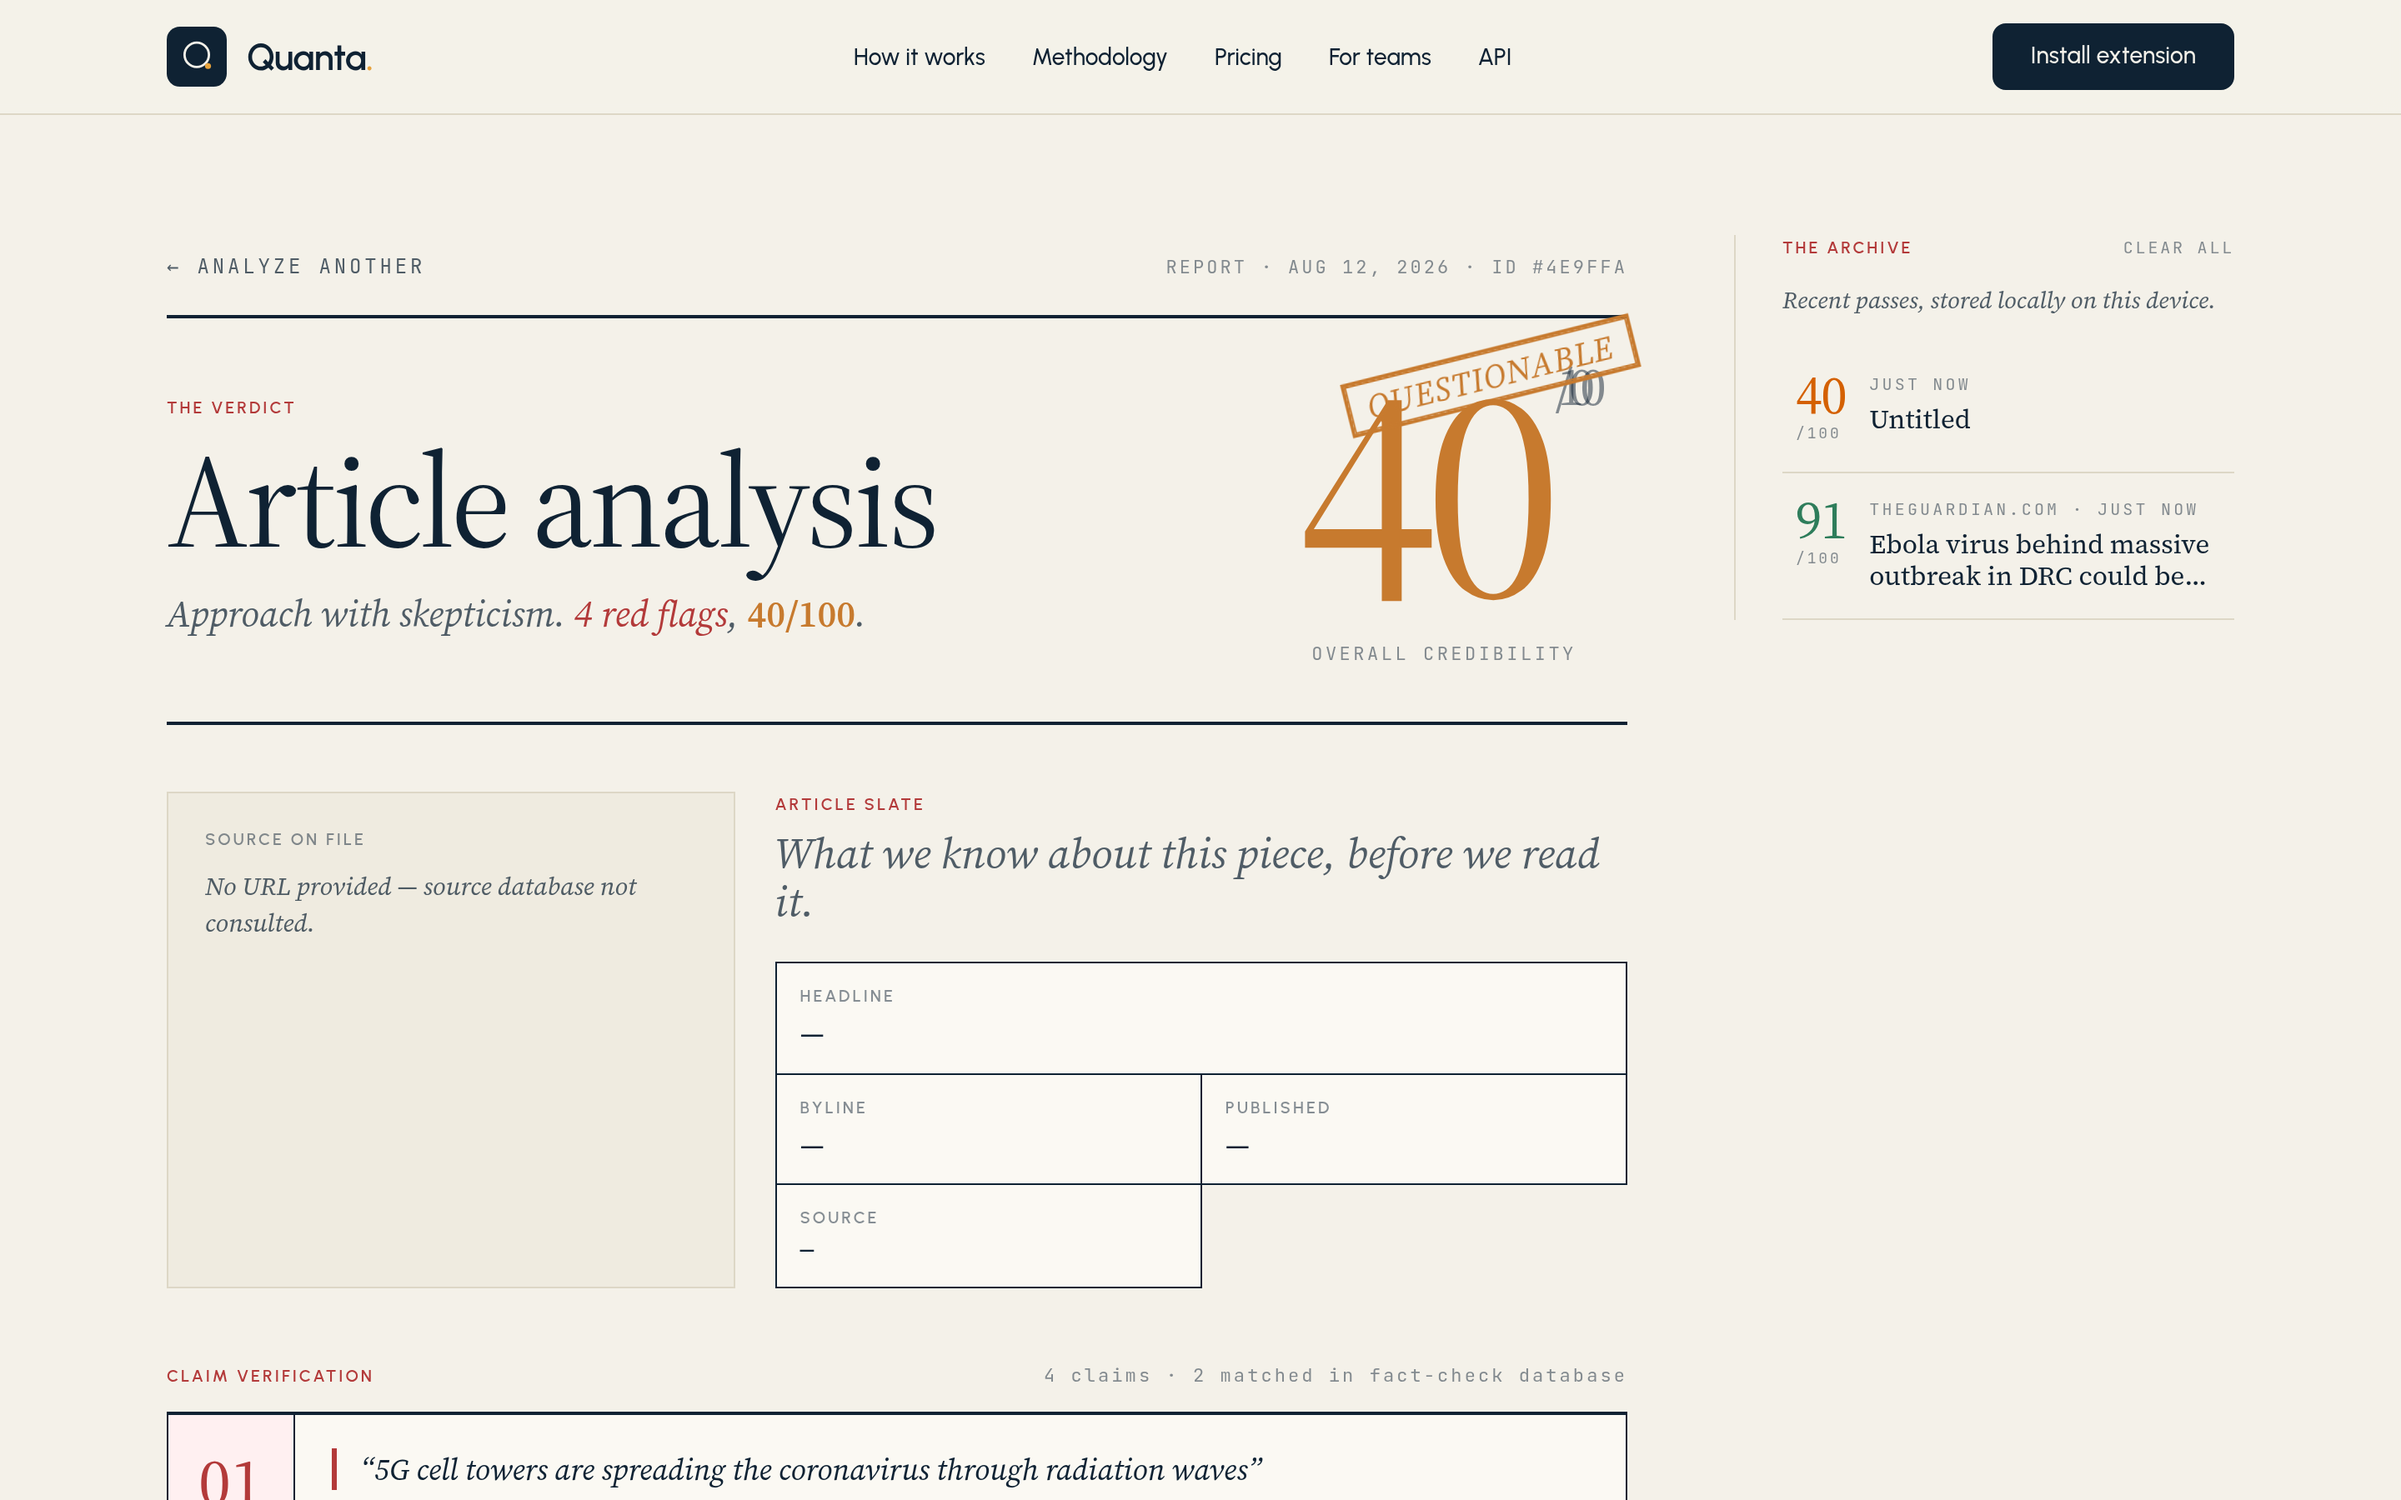
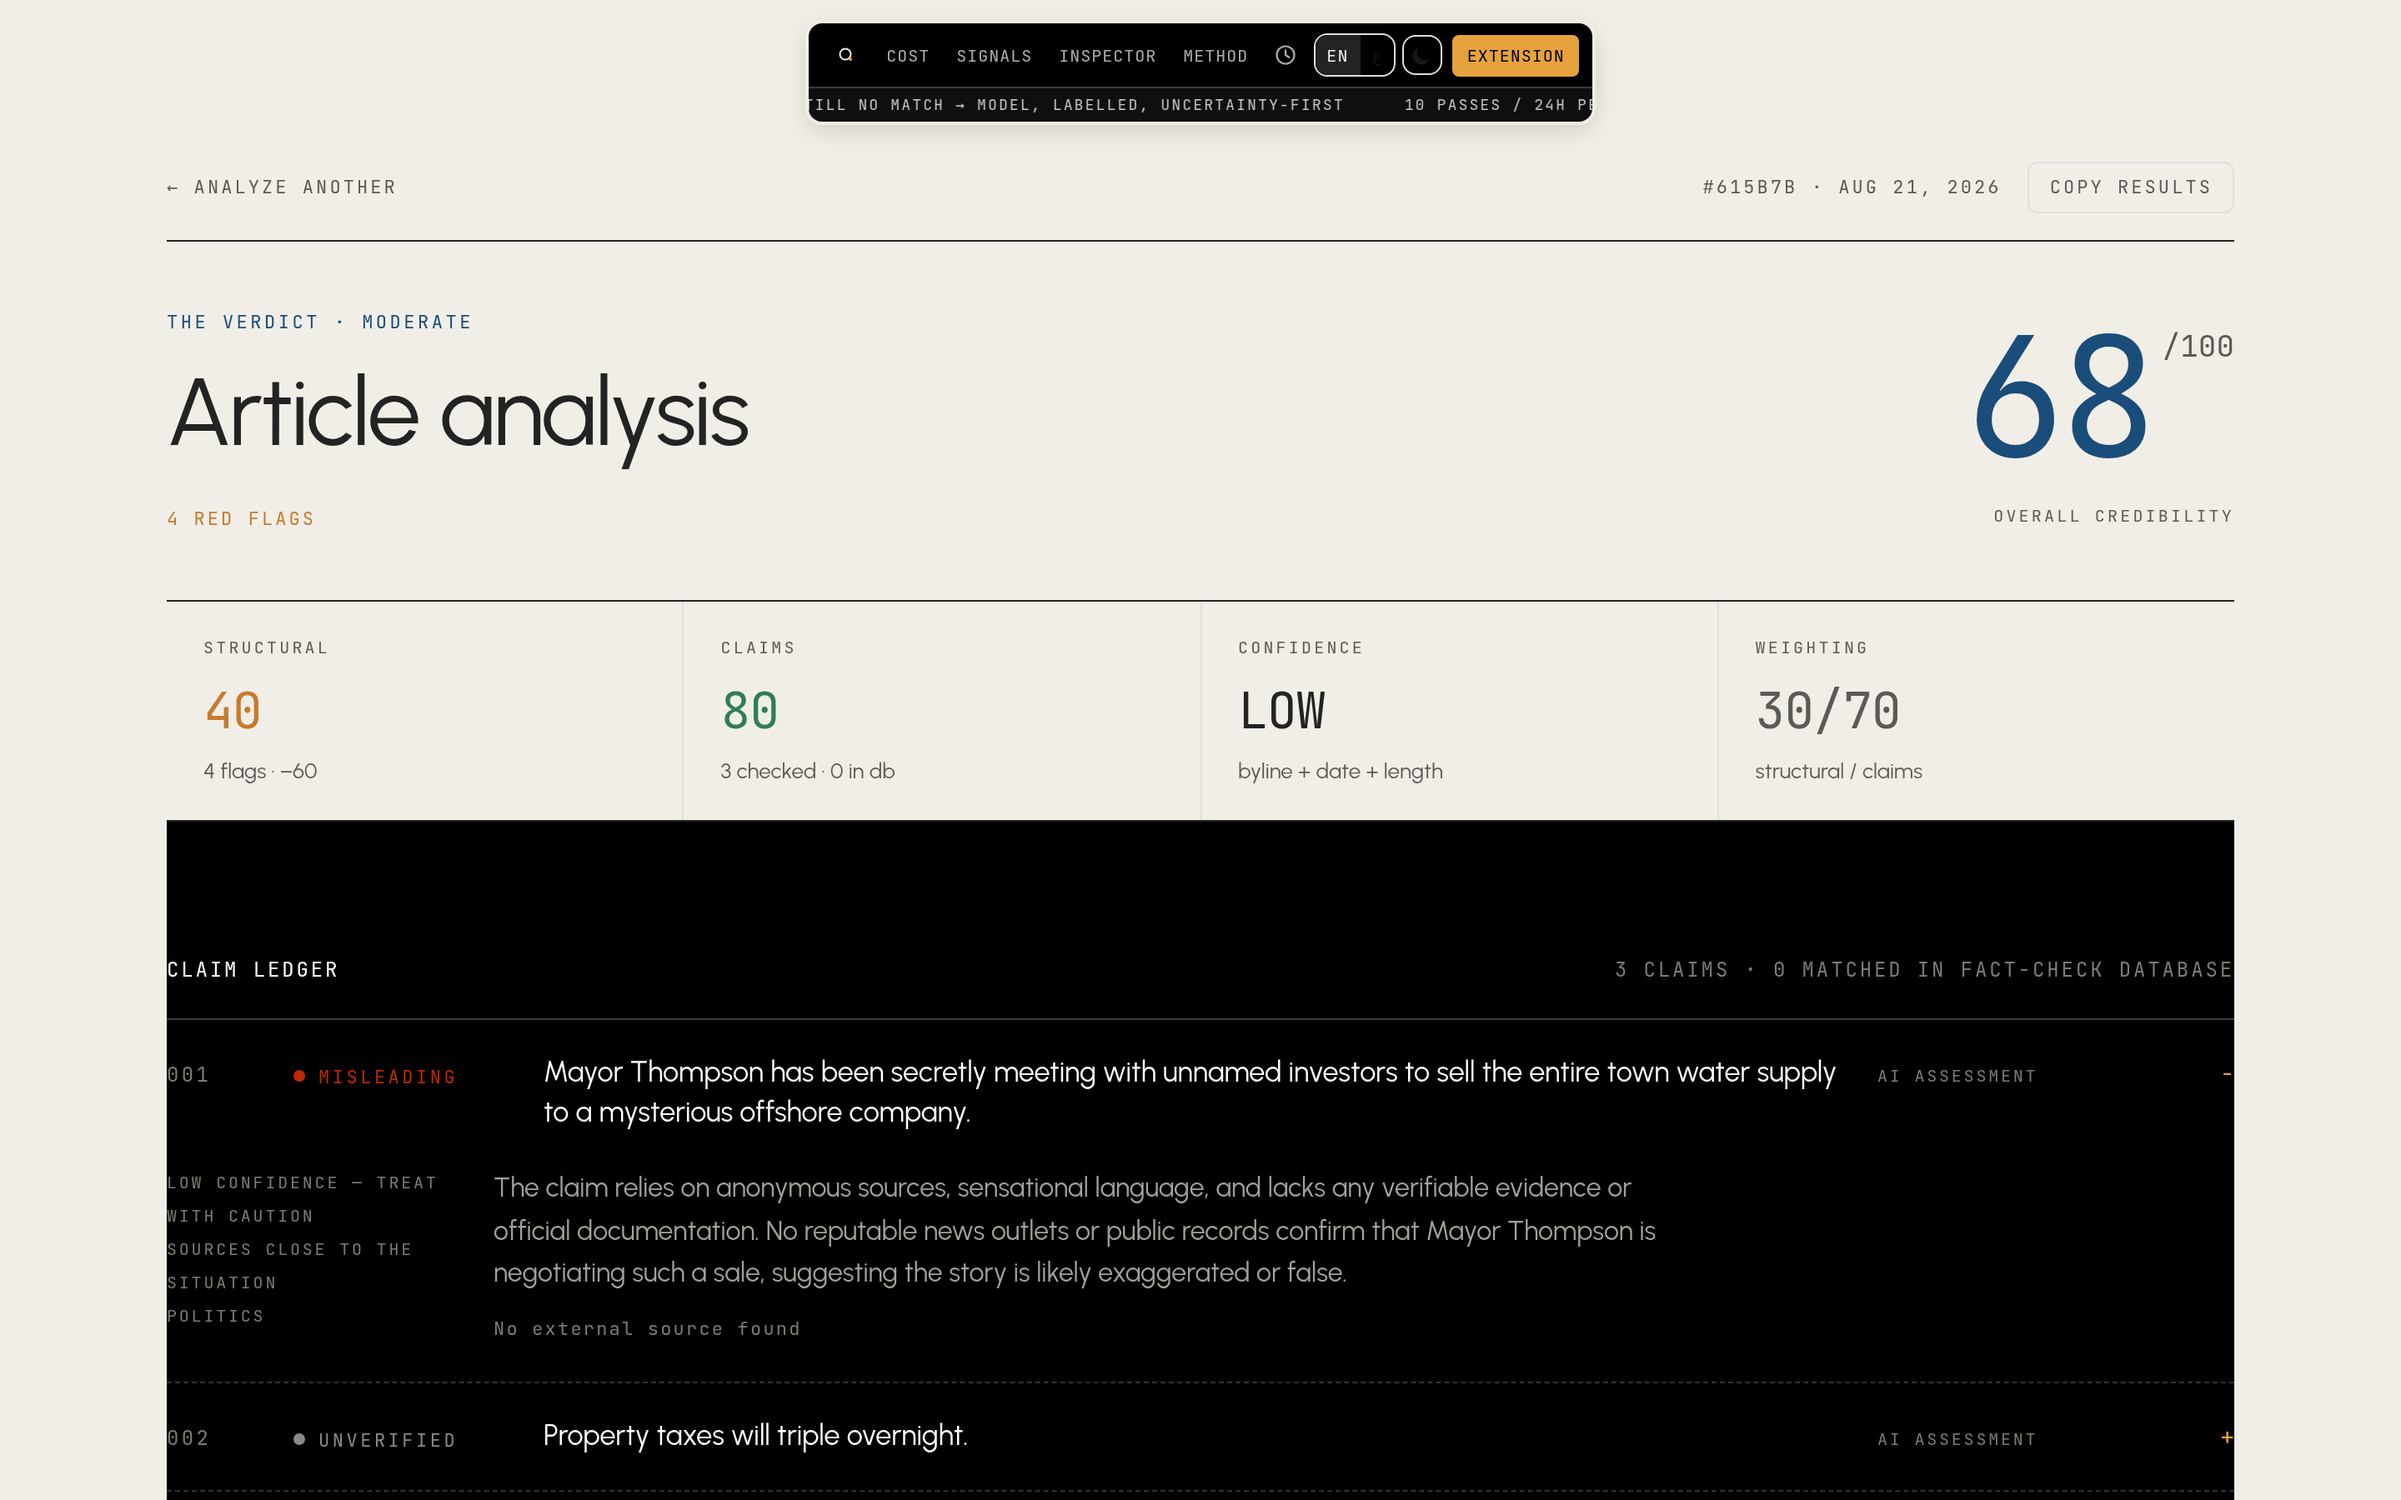
Update the README to the Instrument v2 design
Every screenshot was showing the old serif-accented design, dropped in
the last several commits for the mono-and-dark-panel redesign -- and
two of them (report-low.png, red-flags.png) were built around numbers
("40/100", "four false claims") the real UI can no longer produce
after the verdict-mapping and scoring-formula changes earlier in the
project.

All twelve screenshots are freshly captured from the running app --
real BBC and AP articles through real Groq/Google Fact Check/Brave
calls, not staged data. One flagship swap: the first live URL pulled
for the report-high demo turned out to be about the West Bank, and a
permanent public README is not the place to have the tool's own AI
render a verdict on a live, contested geopolitical claim -- swapped
for a BBC piece about a dinosaur sculpture exhibit instead. The
low-score example also changed on its own merits: the real run landed
at 68/100 despite four structural red flags, because the claims pass
declined to confidently call anything false -- kept that result
instead of cherry-picking a lower one, since it's a more honest
demonstration of exactly why the structural pass is only 30% of the
score. The extension screenshots are real too, driven through a
chrome.* mock whose analyze port hits the actual /api/analyze endpoint
rather than faking a result.

Text changes ride along with the screenshots: the model reference
throughout (README and the report footer's "engine v2" line) now says
[…]

diff --git a/README.md b/README.md
@@ -21,9 +21,9 @@
 
 ---
 
-![A Quanta credibility report](docs/screenshots/report-high.png)
+![The Quanta home screen — URL input beside a cursor-tracked signal field](docs/screenshots/app-input.png)
 
-<div align="center"><sub>A live <i>Guardian</i> article, measured — 91/100, one structural flag, five claims verified.</sub></div>
+<div align="center"><sub>Instrument v2: a mono-and-dark-panel redesign. The right-hand panel is a real thing, not decoration — move the cursor and it samples a reading; the numbers streaming past it are the same illustrative vocabulary as the "Try" links below the input, not live telemetry.</sub></div>
 
 ---
 
@@ -47,45 +47,47 @@ The score is arithmetic over those verdicts, not a vibe. You can read the formul
 
 ### 1 · Paste a URL or the article text
 
-The archive on the right is every pass you've run, kept in `localStorage` — no account needed, and the history never leaves the browser.
-
-![Article input](docs/screenshots/app-input.png)
+The nav's history button opens the archive — every pass you've run, kept in `localStorage`, no account needed. It never leaves the browser.
 
 ### 2 · Watch it think
 
-The API is a **Server-Sent Events** stream, so the UI names each step as the server reaches it — including one line per claim being verified. Nothing is a fake progress bar; step `06` is genuinely the sixth frame off the wire.
+The API is a **Server-Sent Events** stream, so the UI names each step as the server reaches it, and mirrors the raw frames on the right. Nothing is a fake progress bar — each line there is a frame that actually arrived off the wire.
 
-![Streaming analysis progress](docs/screenshots/analyzing.png)
+![Streaming analysis, live SSE frames on the right](docs/screenshots/analyzing.png)
 
 ### 3 · Read the verdict
 
-The report at the top of this page scored a *Guardian* piece at 91. Here is the same pipeline over a deliberately fabricated tabloid text: 40/100, four structural flags, four false claims — two of them matched directly against fact-check databases.
+A live BBC piece, scored 77/100 — "moderate," one structural flag (no byline), five claims checked and none of them pre-existing in a fact-check database, so every verdict below is a labelled AI assessment.
 
-![Credibility report for a fabricated article](docs/screenshots/report-low.png)
+![Credibility report for a live BBC article](docs/screenshots/report-high.png)
+
+Run the same pipeline over an anonymous, ALL-CAPS, exclamation-heavy pasted text and the structural score collapses to 40 — four flags, −60 — but the overall lands at 68, "moderate," because the claims pass came back *misleading* and *unverified* rather than confidently false. That gap is not a bug to hide; it's the reason the structural pass is only 30% of the score and the claims pass is 70%: a model that won't guess can't hand out a false-positive "confirmed false," and the number should say so honestly rather than round down for effect.
+
+![Credibility report for a low-quality pasted article](docs/screenshots/report-low.png)
+
+<sub>Full-length version: [high-scoring](docs/screenshots/report-high-full.png) · [low-scoring](docs/screenshots/report-low-full.png)</sub>
 
 ### 4 · Every claim, with its receipt
 
-This is the part that matters. Each claim carries a verdict, a confidence, the publisher that issued the rating, a link to the original fact-check, and an honest `No external source found` marker when the assessment came from the model instead.
+The claim ledger is an accordion, not a card grid — click a row and it opens in place. Each one carries a verdict, a confidence, and either a publisher link or an honest `No external source found` when the assessment came from the model instead.
 
-![Claim verification cards](docs/screenshots/claims.png)
+![Claim ledger for the BBC article — three verified, one false, one unverified](docs/screenshots/claims.png)
 
 ### 5 · Structural signals, computed not guessed
 
-![Structural red flags](docs/screenshots/red-flags.png)
+![Structural red flags and the no-source-on-file fallback](docs/screenshots/red-flags.png)
 
 ### 6 · In the dark
 
-The whole interface is painted from CSS custom properties, so dark mode is a token swap in one stylesheet rather than a second set of components. An inline script applies the stored preference before first paint, so there's no white flash on load.
+The whole interface is painted from CSS custom properties, so dark mode is a token swap in one stylesheet rather than a second set of components — including the fixed near-black instrument panels (nav, claim ledger), which stay pure black in *both* themes on purpose. This run also shows a real fact-check database hit: USA Today rated the headline Apollo 11 claim "Missing Context," which is why it's marked `MISLEADING` instead of the model's own assessment.
 
-![The report in dark mode](docs/screenshots/report-dark.png)
+![The report in dark mode, with a real fact-check-database match](docs/screenshots/report-dark.png)
 
 ### 7 · Source dossier
 
 32 outlets are profiled locally — credibility score, editorial lean, track record, and the standing fact-checker note. Unknown domains degrade gracefully to "source database not consulted" rather than inventing a rating.
 
-<img src="docs/screenshots/source-dossier.png" width="380" alt="Source dossier for The Guardian" />
-
-> *The full-length version of a report is [here](docs/screenshots/report-low-full.png).*
+<img src="docs/screenshots/source-dossier.png" width="380" alt="Source dossier for the BBC" />
 
 ---
 
@@ -129,7 +131,7 @@ flowchart TD
     D --> E
     E --> F{"Tier"}
     F -- free --> G["Score = structural"]
-    F -- paid --> H["Claim extraction<br/>Llama 3.3 70B via Groq"]
+    F -- paid --> H["Claim extraction<br/>gpt-oss-120b via Groq"]
     H --> I["Google Fact Check Tools API"]
     I -- hit --> L["Verdict + publisher link"]
     I -- miss --> J["Brave Search<br/>known fact-check domains"]
@@ -160,14 +162,16 @@ Structural weight is deliberately low: a well-formatted lie should not outscore 
 
 ```
 app/api/analyze/route.ts   SSE endpoint · CORS · rate limit · scrape → stream
+lib/urlGuard.ts             SSRF guard on scraped URLs        (blocks private/link-local, re-checks redirects)
 lib/structural.ts          deterministic signals          (no network)
 lib/groq.ts                shared LLM client              (retry, fence + JSON recovery)
-lib/claims.ts              claim extraction               (Groq)
+lib/claims.ts               claim extraction               (Groq)
 lib/factcheck.ts           Google Fact Check → Brave      (graceful null on miss)
-lib/analyze.ts             async generator orchestrating the passes
+lib/analyze.ts              async generator orchestrating the passes
 lib/synthesize.ts          last-resort model assessment   (Groq, never throws)
+lib/errorMessages.ts        API error code → translated copy
 lib/sourceDatabase.ts      32 outlets: score, lean, record
-components/                report UI · claim cards · history · marketing
+components/                report UI · claim ledger · history drawer · marketing
 extension/                 MV3: content script · service worker · popup
 ```
 
@@ -209,6 +213,7 @@ The long-lived `chrome.runtime.Port` lives in the service worker on purpose: MV3
 - **A caller-supplied URL is treated as an attack surface.** The endpoint fetches whatever URL it is handed from inside the deployment and returns the body, so `lib/urlGuard.ts` rejects non-http schemes, private and link-local addresses (including IPv4-mapped IPv6), and hostnames whose DNS answers point anywhere internal. Redirects are followed by hand so every hop is re-checked.
 - **The quota is refunded when the work never happened.** Validation runs before a slot is claimed; the scrape runs after, and a dead link or a paywall hands the slot back rather than costing one of three daily analyses.
 - **Errors carry a code, not a stack.** Failures travel as a typed `code` plus a fallback sentence; each client renders its own translated copy, and internal strings never reach the screen.
+- **The LLM provider is one constant, not a scattered assumption.** When Groq retired `llama-3.3-70b-versatile` from its catalog mid-project, every call site kept working off one swap in `lib/groq.ts` — including the `reasoning_effort` tuning the replacement model needs to keep its chain-of-thought from eating the whole token budget before emitting an answer.
 
 ---
 
@@ -255,7 +260,7 @@ Load `extension/dist` at `chrome://extensions` with Developer Mode on. To point 
 This is a working prototype, not a finished product. Where it falls short:
 
 - **There is still no auth.** The tier is now decided server-side in `resolveTier()` instead of being read off the request body, but that function returns `paid` for everyone — the rate limit, not a subscription, is what bounds usage.
-- **The score is uncalibrated.** The weights are reasoned, not fitted. They need a labelled evaluation set before anyone treats the number as authoritative.
+- **The score is uncalibrated.** The weights are reasoned, not fitted. The low-score example above shows why that matters in practice: four structural red flags still landed at a 68 overall, because the claims pass declined to confidently call anything false. That is the system working as designed — but "as designed" still isn't "validated against a labelled set," which is what it would take before anyone treats the number as authoritative.
 - **The source database is a hand-curated file.** 32 outlets, no update mechanism.
 - **No persistence.** History is `localStorage`; clearing the browser clears the record.
 - **Scraping fails on hard targets.** Paywalls, heavy JS, bot protection.
@@ -272,6 +277,6 @@ This is a working prototype, not a finished product. Where it falls short:
 
 Built with Next.js, TypeScript and Groq · MIT licensed
 
-<sub>Every report screenshot above is a real analysis of a live article, captured from the running app.</sub>
+<sub>Every report screenshot above is a real analysis of a live article or a real pasted text, captured from the running app.</sub>
 
 </div>
